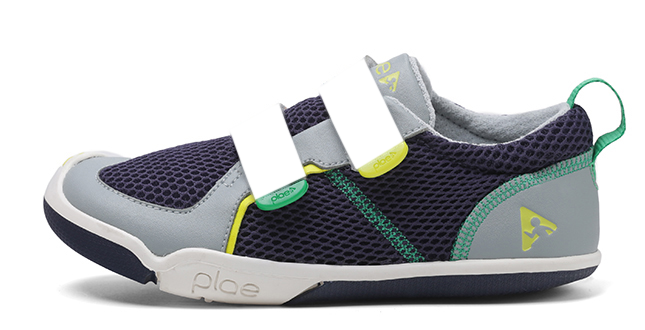
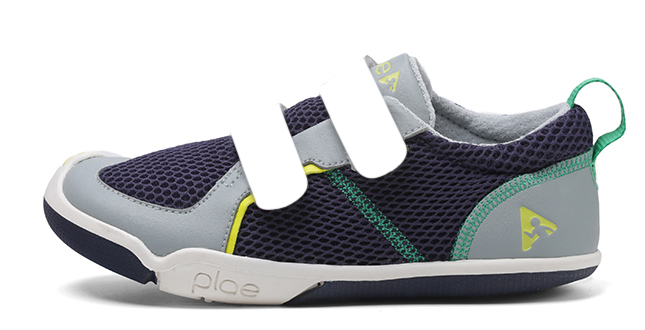
initial tabs with profile view

Changed region(s): [[0.5581, 0.4242, 0.6512, 0.5455], [0.3721, 0.5152, 0.4961, 0.6364]]

diff --git a/js/plaeChefController.js b/js/plaeChefController.js
@@ -99,10 +99,10 @@
 
       $scope.hideMeLT = function() {
           return $scope.tabLT.length > 0;
-      }
+      };
       $scope.hideMeLB = function() {
           return $scope.tabLB.length > 0;
-      }
+      };
 
       $http.get('product/shoeStyles_local.json').success(function(data) {
           $scope.shoeStyles = data;
@@ -118,31 +118,6 @@
       $http.get('product/views.json').success(function(data) {
           $scope.mainViews = data;
       });
-
-
-      this.makeTabsCanvas = function(imageUrl, view)
-      {
-          this.clearImage();
-          context.fillStyle="#FFFFFF";
-          context.fillRect(0,0,canvas.width,100);
-
-          var image = new Image();
-          image.src = imageUrl;
-
-          switch (view){
-              case "top":
-                  break;
-              case "left":
-                  break;
-              case "right":
-                  break;
-              case "pair":
-                  break;
-              default:
-                  break;
-
-          }
-      }; //end makeTabsCanvas
 
       /*                                 */
       /* helper function to clear canvas */
@@ -160,18 +135,18 @@
 
           // Restore the transform
           ctx.restore();
-      } // end clearImage
+      }; // end clearImage
 
       this.setShoe = function(shoe,event) {
           console.log($scope.shoeSelected.pop() + " was removed as selected style");
           $scope.shoeSelected.push(shoe);
           console.log(shoe.name + " style selected");
-          console.log($scope.shoeSelected)
+          console.log($scope.shoeSelected);
 
           this.setViews();
 
 
-      } //end setShoe
+      }; //end setShoe()
 
       // Add a Item to the list
       this.addTab = function (tab, event) {
@@ -180,10 +155,11 @@
           $scope.tabLB.pop();
           $scope.tabLT.push(tab);
           $scope.tabLB.push(tab);
+          if($scope.shoeSelected.length>0){
+              this.setViews();
+          }
           this.setTabViews();
-          this.setViews();
-
-      };
+      }; //end addTab()
 
       this.setViews = function(){
           console.log("inside setViews");
@@ -193,17 +169,17 @@
           this.drawRightProfileViewImage();
 
 
-      } //end setViews
+      }; //end setViews
 
       this.setTabViews = function(){
           console.log("inside setTabViews");
       /*    this.drawDefaultViewImage(); */
       /*    this.drawTopViewImage(); */
           this.drawLeftTabsProfileViewImage();
-       /*   this.drawRightProfileViewImage(); */
+          this.drawRightTabsProfileViewImage();
 
 
-      } //end setViews
+      }; //end setViews
 
       this.drawDefaultViewImage = function (){
           this.clearImage(canvas,context );
@@ -219,7 +195,7 @@
               context.drawImage(base_image, 150, 60, 800, 409);
               console.log("drawDefaultImage set!");
           }//end if-else
-      }//end drawDefaultViewImage
+      }; //end drawDefaultViewImage
 
       this.drawTopViewImage = function (){
           this.clearImage(topViewCanvas,tpcontext );
@@ -232,12 +208,13 @@
           left_image.src = $scope.shoeSelected[0]["mainViewTopLeft"];
           tpcontext.drawImage(left_image, 300, 0, 240, 469);
           console.log("drawTopViewImage set!");
-      }// end drawTopViewImage
+      };// end drawTopViewImage
 
       this.drawLeftProfileViewImage = function (){
           this.clearImage(leftProfileCanvas,lpcontext );
+          lpcontext.translate(0,0);
           lpcontext.fillStyle="#FFFFFF";
-          lpcontext.fillRect(0,0,leftProfileCanvas.width,100);
+          lpcontext.fillRect(0,0,leftProfileCanvas.width,150);
           var base_image = new Image();
           if (this.isTabSelected()) {
               base_image.src = $scope.shoeSelected[0]["mainViewLeftProfileNoTab"];
@@ -248,12 +225,13 @@
               lpcontext.drawImage(base_image, 210, 110, 600, 307);
               console.log("drawLeftProfileImage mainViewLeftProfile set!");
           }// end if-else
-      }// end drawLeftProfileViewImage
+      };// end drawLeftProfileViewImage
 
       this.drawRightProfileViewImage = function (){
           this.clearImage(rightProfileCanvas,rpcontext );
+          rpcontext.translate(0,0);
           rpcontext.fillStyle="#FFFFFF";
-          rpcontext.fillRect(0,0,rightProfileCanvas.width,100);
+          rpcontext.fillRect(0,0,rightProfileCanvas.width,150);
           var base_image = new Image();
           if (this.isTabSelected()) {
               base_image.src = $scope.shoeSelected[0]["mainViewRightProfileNoTab"];
@@ -264,28 +242,61 @@
               rpcontext.drawImage(base_image, 240, 110, 600, 307);
               console.log("drawRightProfileImage mainViewRightProfile set!");
           }// end if-else
-      }//end drawRightProfileViewImage
+      }; //end drawRightProfileViewImage
 
       this.drawLeftTabsProfileViewImage = function (){
           this.clearImage(leftProfileTabCanvas,lptabcontext );
-          lptabcontext.fillStyle="#FFFFFF";
-          lptabcontext.fillRect(0,0,leftProfileCanvas.width,100);
-          var base_image = new Image();
 
-          // add tab code
-          base_image.src = $scope.tabLT[0]["tabOneImg"];
-          lptabcontext.drawImage(base_image, 210, 110);
+          var tab_image = new Image();
+          var tabWidth = 265;
+          var tabHeight = 73;
+
+          var topXOffset = 447;
+          var topYOffset = 148;
+          var topRotation = 65;
+
+          var botXOffset = 360;
+          var botYOffset = 173;
+          var botRotation = 68;
+
+          tab_image.src = $scope.tabLT[0]["tabOneImg"];
+          this.drawRotated(topRotation,leftProfileTabCanvas,lptabcontext,tab_image, topXOffset, topYOffset, tabWidth, tabHeight);
           console.log("drawLeftTabProfileImage top is set!");
-          base_image.src = $scope.tabLT[0]["tabTwoImg"];
-          lptabcontext.drawImage(base_image, 210, 110);
+
+          tab_image.src = $scope.tabLT[0]["tabTwoImg"];
+          this.drawRotated(botRotation,leftProfileTabCanvas,lptabcontext,tab_image, botXOffset, botYOffset, tabWidth, tabHeight);
           console.log("drawLeftTabProfileImage bottom is set!");
-      }// end drawLeftTabsProfileViewImage
+      }; // end drawLeftTabsProfileViewImage
+
+
+      this.drawRightTabsProfileViewImage = function (){
+          this.clearImage(rightProfileTabCanvas,rptabcontext );
+          var tab_image = new Image();
+          var tabWidth = 267;
+          var tabHeight = 73;
+
+          var topXOffset = 494;
+          var topYOffset = 96;
+          var topRotation = 116;
+
+          var botXOffset = 574;
+          var botYOffset = 126;
+          var botRotation = 111;
+
+          tab_image.src = $scope.tabLT[0]["tabOneImg"];
+          this.drawRotated(topRotation,rightProfileTabCanvas,rptabcontext,tab_image, topXOffset, topYOffset, tabWidth, tabHeight);
+          console.log("drawRightTabProfileImage top is set!");
+
+          tab_image.src = $scope.tabLT[0]["tabTwoImg"];
+          this.drawRotated(botRotation,rightProfileTabCanvas,rptabcontext,tab_image, botXOffset, botYOffset, tabWidth, tabHeight);
+          console.log("drawRightTabProfileImage bottom is set!");
+      }; // end drawRightTabsProfileViewImage
+
 
       /**                                       **/
       /*      Logic to set viewable canvas       */
       /**                                       **/
       this.canvasView = "default";
-      this.canvasTabView = "default";
 
       this.isCanvasSet = function(checkCanvas) {
           return this.canvasView === checkCanvas;
@@ -303,7 +314,7 @@
           }
           while($scope.tabs.length > 0 ){
               console.log("popped " + $scope.tabs.pop().name + " from tabs");
-          };
+          }
           this.clearImage(canvas,context );
           this.clearImage(topViewCanvas,tpcontext );
           this.clearImage(leftProfileCanvas,lpcontext );
@@ -311,6 +322,28 @@
           this.canvasView = "default";
 
       };
+
+      this.drawRotated = function(degrees, cnvs, ctx, image, xOffset, yOffset, tabWidth, tabHeight){
+      /*    ctx.clearRect(0,0,cnvs.width,cnvs.height); */
+
+          // save the unrotated context of the canvas so we can restore it later
+          // the alternative is to untranslate & unrotate after drawing
+          ctx.save();
+
+          // move to the center of the canvas
+       //   ctx.translate(cnvs.width/2,cnvs.height/2);
+          ctx.translate(xOffset,yOffset);
+
+          // rotate the canvas to the specified degrees
+          ctx.rotate(degrees*Math.PI/180);
+
+          // draw the image
+          // since the context is rotated, the image will be rotated also
+          ctx.drawImage(image,-image.width/2,-image.width/2,tabWidth,tabHeight);
+
+          // we’re done with the rotating so restore the unrotated context
+          ctx.restore();
+      }; //end drawRotated()
 
 /*
 

diff --git a/index.html b/index.html
@@ -46,8 +46,6 @@
       </div>
 
 
-          <section class="styles-tab" ng-controller="StylesTabController as stylestab">
-
               <div class="styles-menu-container" id="tabs">
 
                   <div class='colorways' id="tabs_container">
@@ -62,7 +60,7 @@
 
                   <div class="tabs-menu left effect6">
                   <ul class="tab-styles-list">
-                      <li class='tab-list' ng-repeat="tab in tabList" ng-model="tab" class='tabs-menu' id="left-{{tab.id}}">
+                      <li class='tab-list' ng-repeat="tab in tabList" class='tabs-menu' id="left-{{tab.id}}">
                           <a href ng-click="plaeChef.addTab(tab, $event)"><img ng-src="{{ tab.menuImg }}"/></a>
                       </li>
 
@@ -70,7 +68,7 @@
               </div>
                   <div class="tabs-menu right effect6">
                       <ul class="tab-styles-list">
-                          <li class='tab-list' ng-repeat="tab in tabList" ng-model="tab" class='tabs-menu' id="right-{{tab.id}}">
+                          <li class='tab-list' ng-repeat="tab in tabList" class='tabs-menu' id="right-{{tab.id}}">
                               <a href ng-click="plaeChef.addTab(tab, $event)"><img ng-src="{{ tab.menuImg }}"/></a>
                           </li>
 
@@ -322,7 +320,6 @@
          <!--     <div class="bin" id="locationRT" data-drop="true" ng-model="locationRT" data-jqyoui-options jqyoui-droppable="{multiple:false, onDrop:'plaeChef.tabDropCallback(shoe, $event, $id)'}"></div>
               <div class="bin" id="locationRB" data-drop="true" ng-model="locationRB" data-jqyoui-options jqyoui-droppable="{multiple:false, onDrop:'plaeChef.tabDropCallback(shoe, $event, $id)'}"></div>
             -->
-          </section>
 
 
 </div>
@@ -336,7 +333,6 @@
 -->
   <script src="http://ajax.googleapis.com/ajax/libs/jqueryui/1/jquery-ui.min.js"></script>
 
-<script type="text/javascript">"js/angularSlideables.js"</script>
 
   <!--<script src="bower_components/angular-route/angular-route.js"></script>
   <script src="components/version/version.js"></script>
@@ -351,7 +347,6 @@
     <script src="app/bower_components/angular-animate/angular-animate.js"></script>
   <script src="components/angular-dragdrop/angular-dragdrop.min.js"></script>
 <script src="js/plaeChefController.js"></script>
-<script src="js/plaeChefProducts.js"></script>
 
 
 

diff --git a/css/plae-chef.css b/css/plae-chef.css
@@ -588,7 +588,7 @@ ul.plae.basket.list {
 }
 
 /* when hiding the picture */
-.ng-hide-add         { animation:0.5s lightSpeedOut ease; }
+.ng-hide-add         { animation:.5s flipOutX ease; }
 
 /* when showing the picture */
-.ng-hide-remove      { animation:0.5s flipInX ease; }
+.ng-hide-remove      { animation:1s lightSpeedIn ease;}
